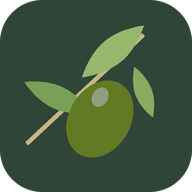
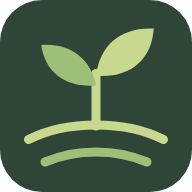
Add files via upload

diff --git a/index.html b/index.html
@@ -3,15 +3,15 @@
 <head>
 <meta charset="utf-8">
 <meta name="viewport" content="width=device-width, initial-scale=1, viewport-fit=cover">
-<title>Gestionale Oliveta</title>
-<meta name="description" content="Gestionale Oliveta: consegne, rese e registro dei trattamenti.">
+<title>Gestionale agricolo</title>
+<meta name="description" content="Gestionale agricolo: campi, colture, lavori, trattamenti e quaderno di campagna.">
 <meta name="theme-color" content="#2f4538">
 <link rel="manifest" href="manifest.webmanifest">
 <link rel="icon" type="image/png" href="favicon.png">
 <link rel="apple-touch-icon" href="apple-touch-icon.png">
 <meta name="mobile-web-app-capable" content="yes">
 <meta name="apple-mobile-web-app-capable" content="yes">
-<meta name="apple-mobile-web-app-title" content="Oliveta">
+<meta name="apple-mobile-web-app-title" content="Gestionale">
 <meta name="apple-mobile-web-app-status-bar-style" content="black-translucent">
 <script src="config.js"></script>
 <style>
@@ -35,10 +35,10 @@
 <div id="fondo"></div>
 <div id="splash" role="status" aria-live="polite">
   <img src="icon-192.png" alt="">
-  <h1>Gestionale Oliveta</h1>
+  <h1>Gestionale agricolo</h1>
   <p id="stato">Apertura…</p>
 </div>
-<iframe id="app" title="Gestionale Oliveta" allow="clipboard-read; clipboard-write; geolocation; camera; fullscreen"></iframe>
+<iframe id="app" title="Gestionale agricolo" allow="clipboard-read; clipboard-write; geolocation; camera; fullscreen"></iframe>
 <script>
 (function () {
   var stato = document.getElementById("stato"), splash = document.getElementById("splash"), app = document.getElementById("app");

diff --git a/sw.js b/sw.js
@@ -1,6 +1,6 @@
 /* Gestionale Oliveta · service worker del guscio: tiene in memoria solo i file di questa pagina
    (il gestionale vero arriva da Google Apps Script e non passa da qui). Prima la rete, poi la copia. */
-const CACHE = "oliveta-guscio-2";
+const CACHE = "oliveta-guscio-3";
 const FILE = ["./", "index.html", "config.js", "manifest.webmanifest", "icon-192.png", "icon-512.png", "icon-maskable-512.png", "apple-touch-icon.png", "favicon.png"];
 
 self.addEventListener("install", (e) => {
